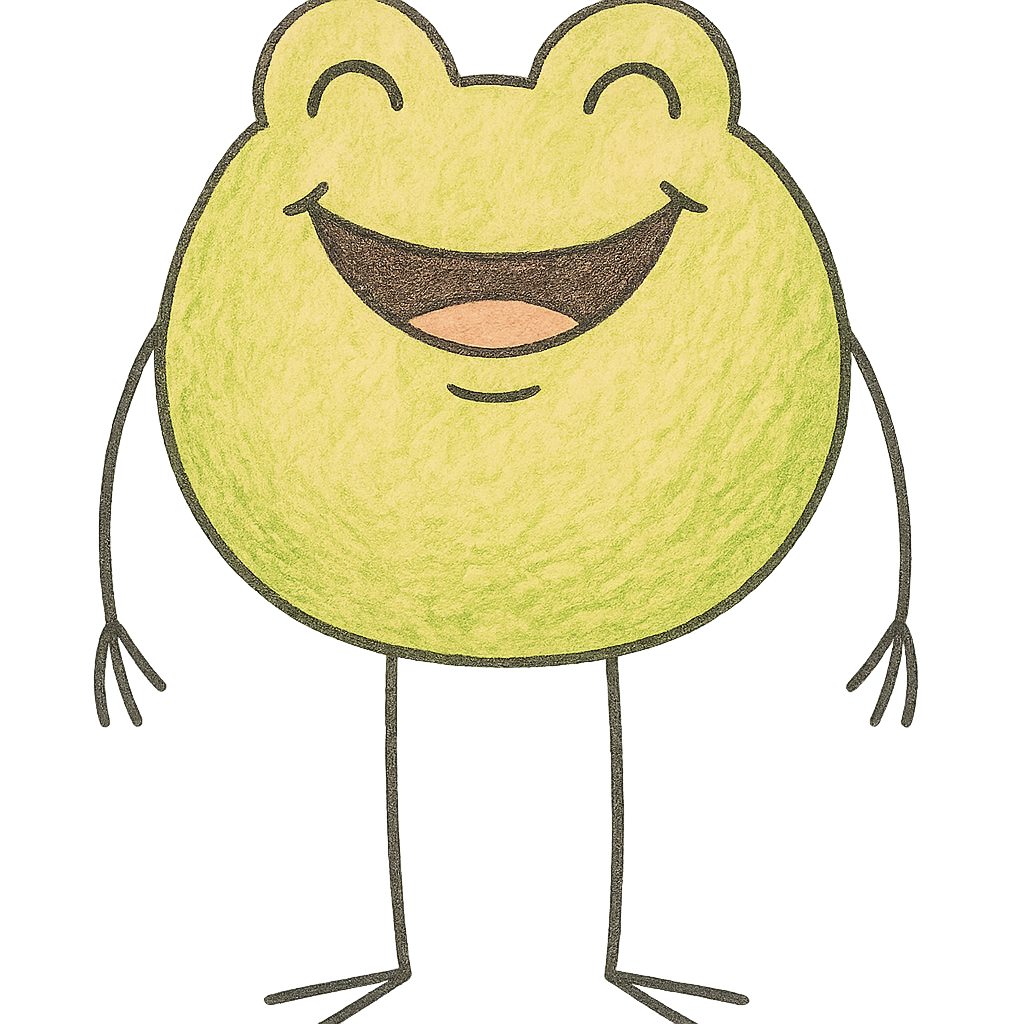
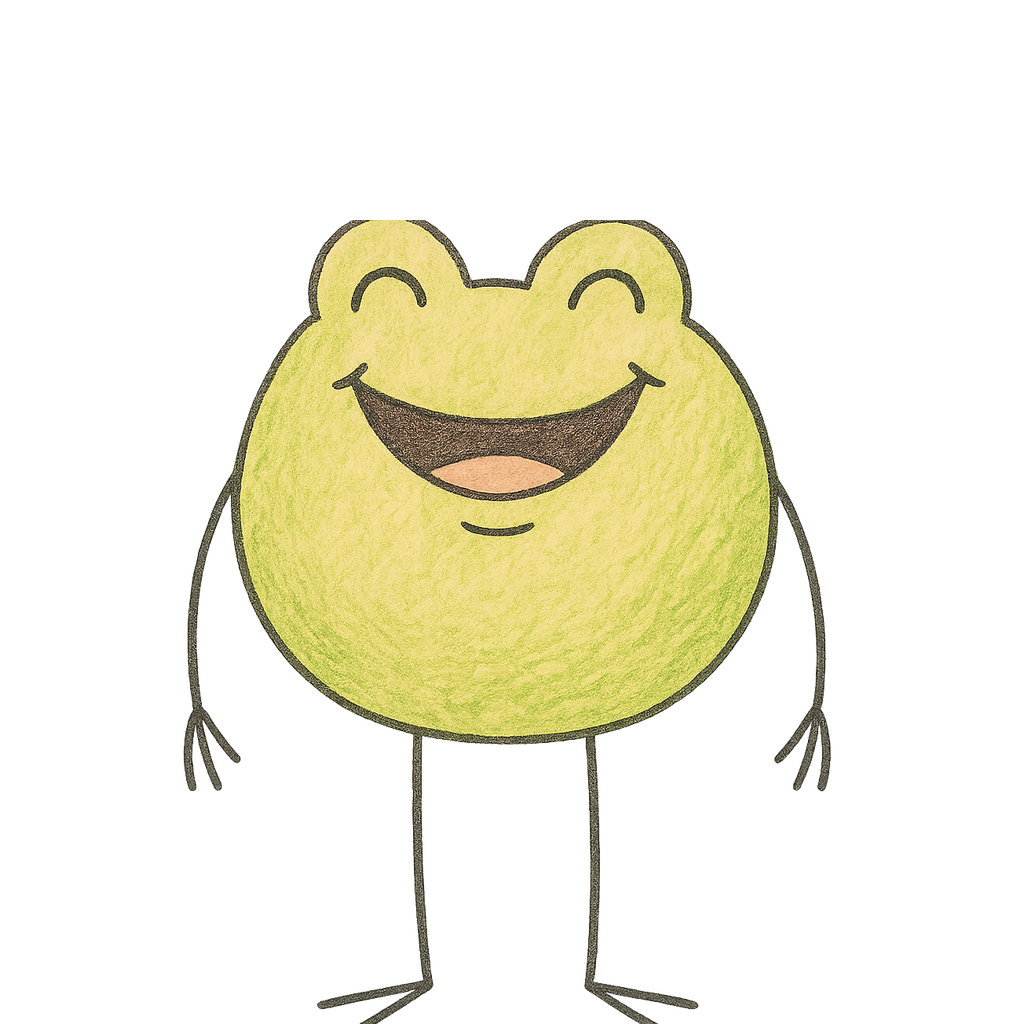
feat(collection): headwear layer online + canvas headroom for accessories
Switches on the third trait category. /generate and /collection now show
hats automatically — picker auto-appears in the Lab via ACTIVE_CATEGORIES
dispatch, and the regenerated 50-frog manifest gives ~46% of frogs a hat.

Anchor model: hats are bottom-anchored at a head-crown reference line
(HEAD_CROWN_Y), extending UP. Replaces the centre-in-box placement that
was leaving cone hats stranded on the frog's mouth.

Canvas headroom: the candidate-1 canonical fills the canvas right to
y=0 (eye bumps touch the top edge), so a hat at any reasonable size
either clipped or sat over the eyes. canonical_copy now scales the
canonical down to (CANVAS - FROG_TOP_PAD) tall and offsets it by
FROG_TOP_PAD=220 so there's 220px of clear sky above the head. Every
accessory anchor (HEAD_CROWN_Y, EYE_BOX, HAND_BOX, SHOE_BOX) is
expressed relative to FROG_TOP_PAD so future layers stay aligned if
the pad is ever tuned.

Frog appears slightly smaller in each tile as a result; the mystery
silhouette shares the same shifted layer so the mystery→owned flip
stays jump-free.

Verified each hat against the Lab preview at 1x and the Collection
grid after a pack pull — all 11 hats (party, beanie, flower-crown,
chef, sailor, top-hat, headphones, pirate, birthday-12,
astronaut-helmet, crown) sit cleanly. Pirate hat's apparent gap is
the natural tricorn curve, not a placement bug.

diff --git a/app/data/collection-traits.ts b/app/data/collection-traits.ts
@@ -255,7 +255,7 @@ export const COLLECTION_SEED = 0x4d724672;
  * first value (none / matte / classic-green). COLLECTION_SIZE grows with the
  * phases — 50 while proving the loop, → 10,000 once every layer is switched on.
  */
-export const ACTIVE_CATEGORIES: TraitCategoryId[] = ["background", "frogColour"];
+export const ACTIVE_CATEGORIES: TraitCategoryId[] = ["background", "frogColour", "headwear"];
 export const COLLECTION_SIZE = 50;
 
 /** The five playful stats every frog carries. */

diff --git a/scripts/build-collection-layers.py b/scripts/build-collection-layers.py
@@ -27,13 +27,23 @@ OUT = PUBLIC / "collection" / "layers"
 CANVAS = 1024
 
 # --- which layer groups are switched on (incremental build) ----------------
-PHASE = ["background", "frog"]
+PHASE = ["background", "frog", "headwear"]
 
-# --- canonical anchors (derived from the base plate) -----------------------
-HEAD_BOX = (300, 2, 724, 322)
-EYE_BOX = (286, 150, 738, 356)
-HAND_BOX = (96, 486, 452, 862)
-SHOE_BOX = (250, 836, 776, 1014)
+# --- canonical anchors (derived from the candidate-1 base plate) -----------
+# The raw canonical PNG fills the canvas right to y=0 — eye bumps touch the
+# top edge — so there's no room to stack a hat above. The build inserts a
+# top pad of FROG_TOP_PAD by scaling the canonical down to (CANVAS - PAD)
+# tall and centring horizontally. Every accessory layer references the
+# *post-pad* frog coordinates so anchors line up.
+FROG_TOP_PAD = 220
+FROG_INNER_H = CANVAS - FROG_TOP_PAD  # the height the canonical lives in
+
+HEAD_CROWN_Y = FROG_TOP_PAD + 40   # hat BOTTOM sits here — just into eye-bump tops
+HEAD_HAT_MAX_W = 620               # widest a hat can be
+HEAD_HAT_MAX_H = HEAD_CROWN_Y      # tallest a hat can be — extends UP to y=0
+EYE_BOX = (286, FROG_TOP_PAD + 100, 738, FROG_TOP_PAD + 270)
+HAND_BOX = (96, FROG_TOP_PAD + 380, 452, FROG_TOP_PAD + 680)
+SHOE_BOX = (250, FROG_TOP_PAD + 680, 776, CANVAS - 8)
 
 FROG_KEYS = ["none", "raincoat", "painter-smock", "chef-apron", "pyjamas",
              "tutu", "sailor", "strongman", "wedding-suit", "superhero",
@@ -90,6 +100,25 @@ def place_in_box(src: Path, box: tuple[int, int, int, int]) -> Image.Image:
     return canvas
 
 
+def place_on_head(src: Path) -> Image.Image:
+    """Place a hat so its BOTTOM sits at HEAD_CROWN_Y and it extends upward.
+
+    Hat is scaled to fit (max_w, max_h), preserving aspect ratio, then
+    centred horizontally on the canvas and anchored vertically so the brim
+    rests on the head-crown reference line.
+    """
+    art = trimmed(src)
+    scale = min(HEAD_HAT_MAX_W / art.width, HEAD_HAT_MAX_H / art.height)
+    new_w = max(1, round(art.width * scale))
+    new_h = max(1, round(art.height * scale))
+    art = art.resize((new_w, new_h), Image.LANCZOS)
+    canvas = blank()
+    x = (CANVAS - new_w) // 2
+    y = HEAD_CROWN_Y - new_h
+    canvas.alpha_composite(art, (x, y))
+    return canvas
+
+
 def place_background(src: Path) -> Image.Image:
     img = Image.open(src).convert("RGBA")
     scale = max(CANVAS / img.width, CANVAS / img.height)
@@ -103,8 +132,25 @@ def place_background(src: Path) -> Image.Image:
 
 
 def canonical_copy(src: Path) -> Image.Image:
+    """Place the canonical (or any outfit variant) below the FROG_TOP_PAD line.
+
+    The raw plate is scaled so its full height fits in CANVAS - FROG_TOP_PAD,
+    then centred horizontally and offset down by FROG_TOP_PAD. That gives
+    the accessory zone above the frog the room to hold a hat without
+    clipping at the canvas top edge.
+    """
     img = Image.open(src).convert("RGBA")
-    return img if img.size == (CANVAS, CANVAS) else img.resize((CANVAS, CANVAS), Image.LANCZOS)
+    if img.size != (CANVAS, CANVAS):
+        img = img.resize((CANVAS, CANVAS), Image.LANCZOS)
+    scale = FROG_INNER_H / CANVAS
+    new_w = max(1, round(CANVAS * scale))
+    new_h = max(1, round(CANVAS * scale))
+    inner = img.resize((new_w, new_h), Image.LANCZOS)
+    canvas = blank()
+    x = (CANVAS - new_w) // 2
+    y = FROG_TOP_PAD
+    canvas.alpha_composite(inner, (x, y))
+    return canvas
 
 
 def main() -> int:
@@ -138,7 +184,7 @@ def main() -> int:
         for key in HEADWEAR:
             src = RAW / "headwear" / f"{key}.png"
             if src.exists():
-                save(place_in_box(src, HEAD_BOX), "headwear", key)
+                save(place_on_head(src), "headwear", key)
                 built += 1
             else:
                 missing.append(f"headwear/{key}")
